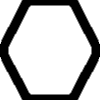
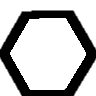
Tileset change

diff --git a/Hex.ts b/Hex.ts
@@ -1,15 +1,16 @@
 import { Biome } from "./Biome.js"
 class Hex extends Image {
-    private static readonly GREEN_HEX_IMG = "GreenHex.png"
-    private static readonly BLUE_HEX_IMG = "BlueHex.png"
-    private static readonly YELLOW_HEX_IMG = "YellowHex.png"
-    private static readonly GRAY_HEX_IMG = "GrayHex.png"
-    private static readonly FOREST_HEX_IMG = "ForestHex.png"
+    private static readonly GREEN_HEX_IMG = "grass.png"
+    private static readonly BLUE_HEX_IMG = "water.png"
+    private static readonly YELLOW_HEX_IMG = "sand.png"
+    private static readonly GRAY_HEX_IMG = "mountain.png"
+    private static readonly FOREST_HEX_IMG = "trees.png"
+    private static readonly HILLS_HEX_IMG = "hills.png"
     private static readonly BORDER_HEX_IMG = "BorderHex.png"
 
     private static readonly ABSOLUTE = "absolute"
     private static readonly PX = "px"
-    private static readonly IMG_DIM = 100
+    private static readonly IMG_DIM = 96
     private static border: HTMLImageElement = null
 
     private static readonly map = document.getElementById("map")
@@ -17,7 +18,8 @@ class Hex extends Image {
     private static readonly MOUSE_OVER = "mouseover"
 
     private static readonly OCEAN_THRESH = .05
-    private static readonly MOUNTAIN_THRESH = .35
+    private static readonly HILLS_THRESH = .35
+    private static readonly MOUNTAIN_THRESH = .45
 
     public static instances: Hex[] = []
     private _x: number = null
@@ -42,7 +44,7 @@ class Hex extends Image {
             if (z < Hex.OCEAN_THRESH) {
                 this.src = Hex.BLUE_HEX_IMG
             }
-            else if (z < Hex.MOUNTAIN_THRESH) {
+            else if (z < Hex.HILLS_THRESH) {
                 switch (biome) {
                     case Biome.Desert:
                         this.src = Hex.YELLOW_HEX_IMG
@@ -53,6 +55,9 @@ class Hex extends Image {
                     case Biome.Forest:
                         this.src = Hex.FOREST_HEX_IMG
                 }
+            }
+            else if (z < Hex.MOUNTAIN_THRESH) {
+                this.src = Hex.HILLS_HEX_IMG
             }
             else {
                 this.src = Hex.GRAY_HEX_IMG
@@ -74,7 +79,7 @@ class Hex extends Image {
         })
         const that = this
         this.addEventListener("mousedown", function () {
-            that.src = "VillageHex.png"
+            that.src = "housing.png"
         })
     }
     public getX(): number {

diff --git a/Hex.js b/Hex.js
@@ -21,7 +21,7 @@ class Hex extends Image {
             if (z < Hex.OCEAN_THRESH) {
                 this.src = Hex.BLUE_HEX_IMG;
             }
-            else if (z < Hex.MOUNTAIN_THRESH) {
+            else if (z < Hex.HILLS_THRESH) {
                 switch (biome) {
                     case Biome.Desert:
                         this.src = Hex.YELLOW_HEX_IMG;
@@ -32,6 +32,9 @@ class Hex extends Image {
                     case Biome.Forest:
                         this.src = Hex.FOREST_HEX_IMG;
                 }
+            }
+            else if (z < Hex.MOUNTAIN_THRESH) {
+                this.src = Hex.HILLS_HEX_IMG;
             }
             else {
                 this.src = Hex.GRAY_HEX_IMG;
@@ -52,7 +55,7 @@ class Hex extends Image {
         });
         const that = this;
         this.addEventListener("mousedown", function () {
-            that.src = "VillageHex.png";
+            that.src = "housing.png";
         });
     }
     getX() {
@@ -68,20 +71,22 @@ class Hex extends Image {
         return this.src;
     }
 }
-Hex.GREEN_HEX_IMG = "GreenHex.png";
-Hex.BLUE_HEX_IMG = "BlueHex.png";
-Hex.YELLOW_HEX_IMG = "YellowHex.png";
-Hex.GRAY_HEX_IMG = "GrayHex.png";
-Hex.FOREST_HEX_IMG = "ForestHex.png";
+Hex.GREEN_HEX_IMG = "grass.png";
+Hex.BLUE_HEX_IMG = "water.png";
+Hex.YELLOW_HEX_IMG = "sand.png";
+Hex.GRAY_HEX_IMG = "mountain.png";
+Hex.FOREST_HEX_IMG = "trees.png";
+Hex.HILLS_HEX_IMG = "hills.png";
 Hex.BORDER_HEX_IMG = "BorderHex.png";
 Hex.ABSOLUTE = "absolute";
 Hex.PX = "px";
-Hex.IMG_DIM = 100;
+Hex.IMG_DIM = 96;
 Hex.border = null;
 Hex.map = document.getElementById("map");
 Hex.ZIDX = "1000";
 Hex.MOUSE_OVER = "mouseover";
 Hex.OCEAN_THRESH = .05;
-Hex.MOUNTAIN_THRESH = .35;
+Hex.HILLS_THRESH = .35;
+Hex.MOUNTAIN_THRESH = .45;
 Hex.instances = [];
 export { Hex };

diff --git a/Initializer.ts b/Initializer.ts
@@ -27,7 +27,8 @@ class Initializer {
     private static readonly MAP_INITIAL_Y = -1900
     private static readonly HEX_COUNT_X = 33
     private static readonly HEX_COUNT_Y = 99
-    private static readonly HEX_WIDTH = 100
+    private static readonly HEX_WIDTH = 96
+    private static readonly HEX_HEIGHT = 84
     private static readonly PERSISTANCE = .5
     private static readonly NOISE_SCALE = .05
     private static readonly NUM_OCTAVES = 16
@@ -38,7 +39,7 @@ class Initializer {
     private static readonly MOVE_UP: number[] = []
     private static readonly MOVE_LEFT: number[] = []
     private static readonly MOVE_DOWN: number[] = []
-    private static moveSpeed = 150
+    private static moveSpeed = 100
 
     static initialize() {
         Initializer.assignListeners()
@@ -100,7 +101,7 @@ class Initializer {
         for (let i = 0; i < Initializer.HEX_COUNT_Y; i++) {
             for (let j = 0; j < Initializer.HEX_COUNT_X; j++) {
                 const x = (i % 2 == 0) ? j * Initializer.HEX_WIDTH * 1.5 : j * Initializer.HEX_WIDTH * 1.5 + Initializer.HEX_WIDTH * .75
-                const y = Initializer.HEX_WIDTH / 2 * i
+                const y = Initializer.HEX_HEIGHT / 2 * i
                 const z = NoiseMap[j][i]
                 const biome = Initializer.getBiome(j, i, biomeMap)
                 Initializer.MAP.appendChild(new Hex(x, y, z, biome))

diff --git a/Initializer.js b/Initializer.js
@@ -56,7 +56,7 @@ class Initializer {
         for (let i = 0; i < Initializer.HEX_COUNT_Y; i++) {
             for (let j = 0; j < Initializer.HEX_COUNT_X; j++) {
                 const x = (i % 2 == 0) ? j * Initializer.HEX_WIDTH * 1.5 : j * Initializer.HEX_WIDTH * 1.5 + Initializer.HEX_WIDTH * .75;
-                const y = Initializer.HEX_WIDTH / 2 * i;
+                const y = Initializer.HEX_HEIGHT / 2 * i;
                 const z = NoiseMap[j][i];
                 const biome = Initializer.getBiome(j, i, biomeMap);
                 Initializer.MAP.appendChild(new Hex(x, y, z, biome));
@@ -197,7 +197,8 @@ Initializer.MAP_INITIAL_X = -2000;
 Initializer.MAP_INITIAL_Y = -1900;
 Initializer.HEX_COUNT_X = 33;
 Initializer.HEX_COUNT_Y = 99;
-Initializer.HEX_WIDTH = 100;
+Initializer.HEX_WIDTH = 96;
+Initializer.HEX_HEIGHT = 84;
 Initializer.PERSISTANCE = .5;
 Initializer.NOISE_SCALE = .05;
 Initializer.NUM_OCTAVES = 16;
@@ -207,5 +208,5 @@ Initializer.MOVE_RIGHT = [];
 Initializer.MOVE_UP = [];
 Initializer.MOVE_LEFT = [];
 Initializer.MOVE_DOWN = [];
-Initializer.moveSpeed = 150;
+Initializer.moveSpeed = 100;
 export { Initializer };
